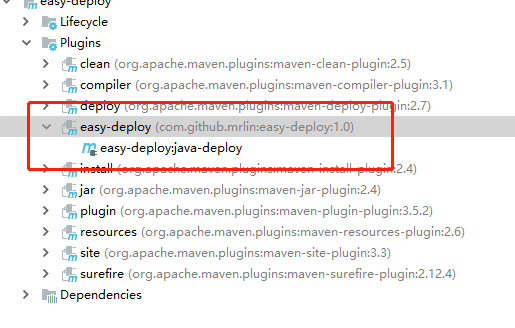
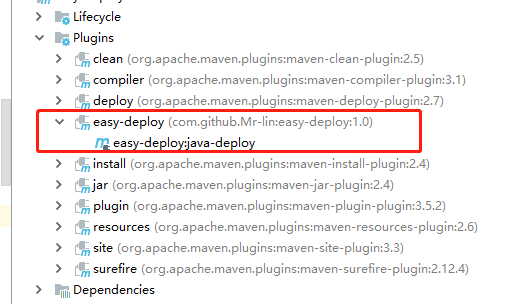
调整包结构

diff --git a/src/main/java/com/github/mrlin/easydeploy/Deploy.java b/src/main/java/com/github/mrlin/easydeploy/Deploy.java
@@ -1,4 +1,4 @@
-package com.github.mrlin;
+package com.github.mrlin.easydeploy;
 
 import com.jcraft.jsch.*;
 
@@ -7,8 +7,7 @@ import java.util.Properties;
 
 /**
  * @author linzhiwei
- * @Description:
- * @date 2019/2/26 11:28
+ * @version 1.0
  */
 public class Deploy {
 
@@ -27,8 +26,8 @@ public class Deploy {
     /**
      * 上传文件到远程服务器
      *
-     * @param src
-     * @param dst
+     * @param src 源文件地址
+     * @param dst 目标地址
      * @return
      */
     public boolean uploadFile(String src, String dst) {

diff --git a/src/main/java/com/github/mrlin/easydeploy/DeployPlugin.java b/src/main/java/com/github/mrlin/easydeploy/DeployPlugin.java
@@ -1,4 +1,4 @@
-package com.github.mrlin;
+package com.github.mrlin.easydeploy;
 
 import org.apache.maven.plugin.AbstractMojo;
 import org.apache.maven.plugin.MojoExecutionException;
@@ -8,8 +8,7 @@ import org.apache.maven.plugins.annotations.Parameter;
 
 /**
  * @author linzhiwei
- * @Description:
- * @date 2019/2/26 9:39
+ * @version 1.0
  */
 @Mojo(name = "java-deploy")
 public class DeployPlugin extends AbstractMojo {

diff --git a/README.md b/README.md
@@ -10,7 +10,7 @@ maven pom.xml 中引入
 ```xml
 <build>
 <plugin>
-    <groupId>com.github.mrlin</groupId>
+    <groupId>com.github.Mr-lin</groupId>
     <artifactId>easy-deploy</artifactId>
     <version>1.0</version>
     <configuration>
